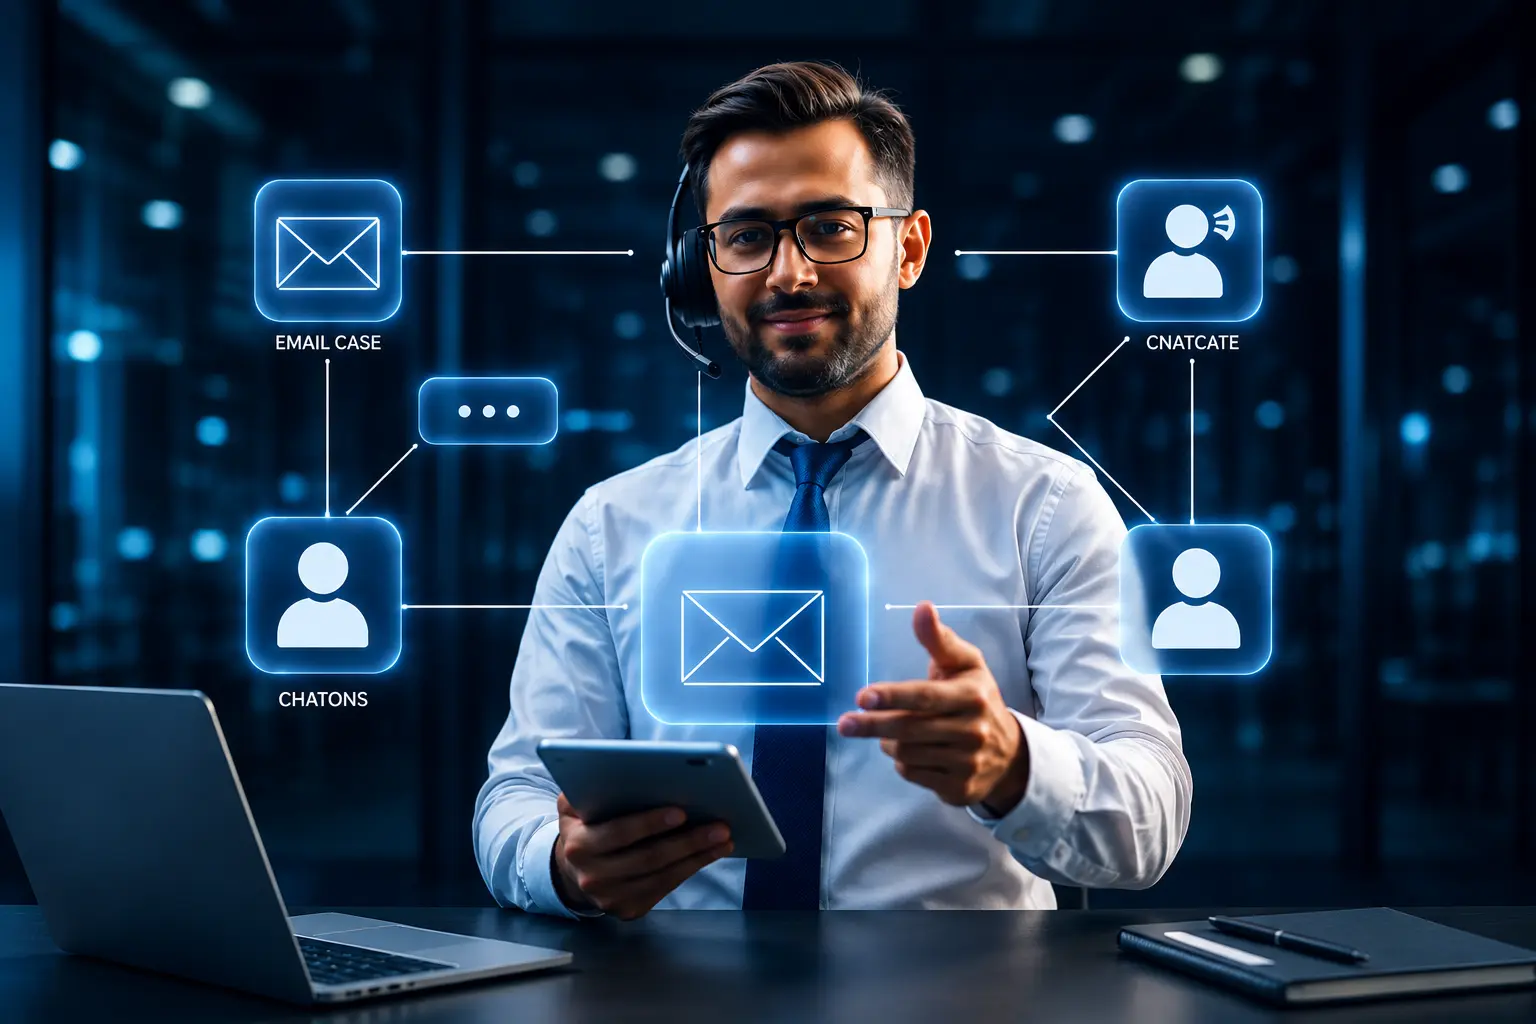
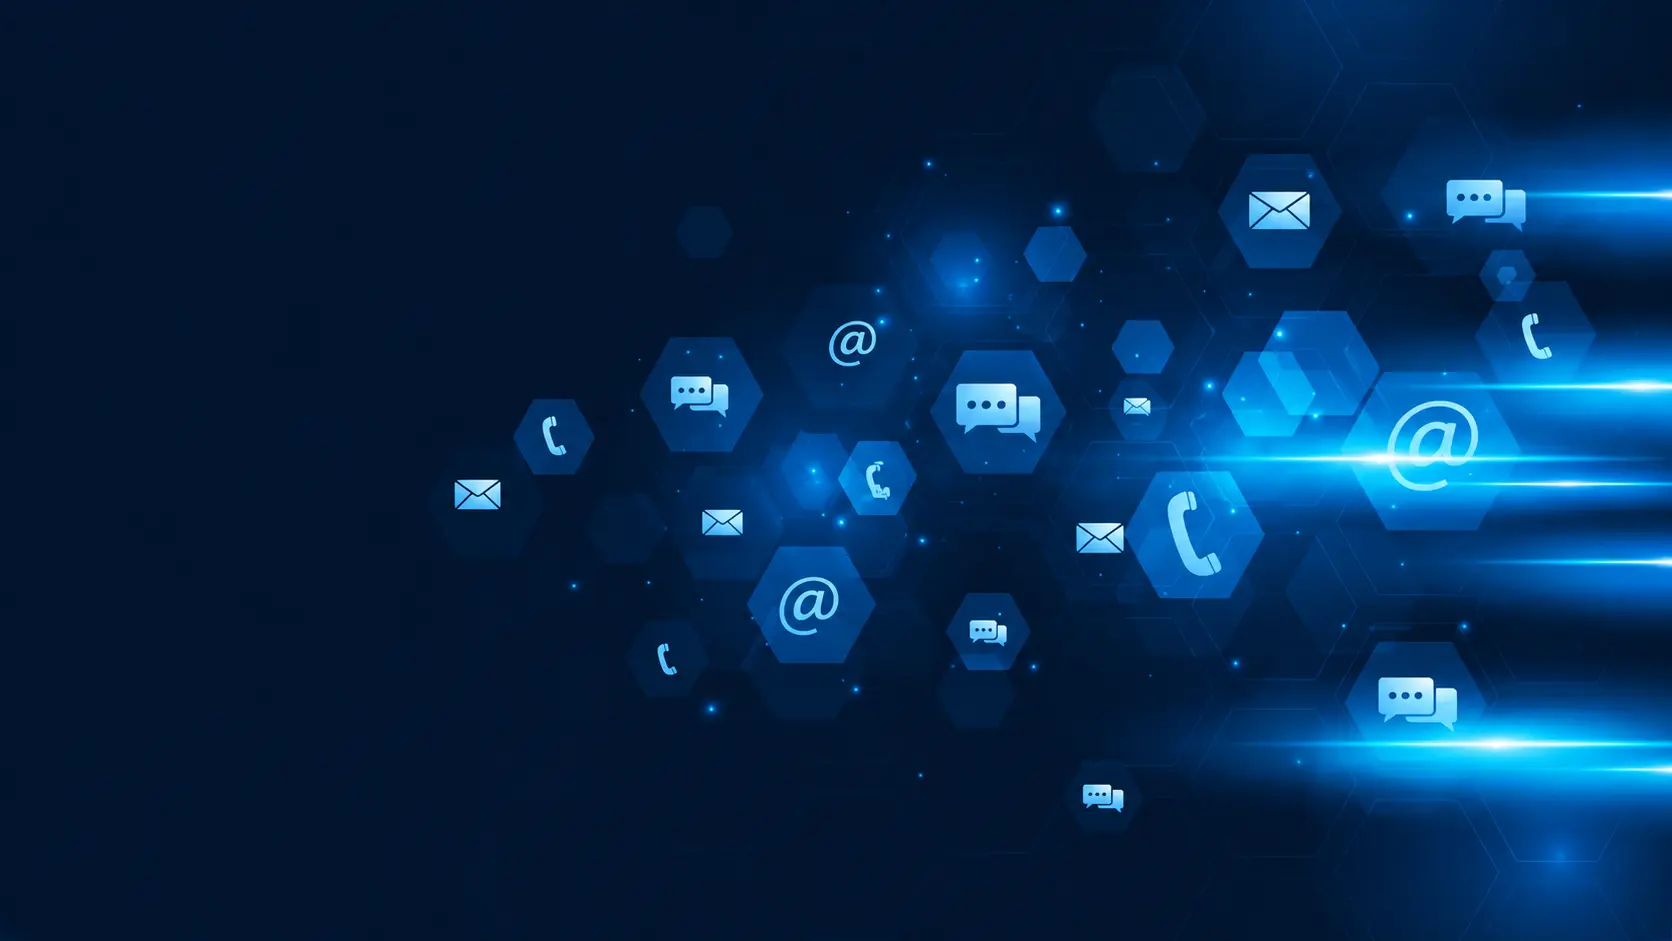
Refactor code structure for improved readability and maintainability

diff --git a/client/src/features/public/pages/ContactUs.tsx b/client/src/features/public/pages/ContactUs.tsx
@@ -122,40 +122,42 @@ function ContactUs() {
     }`;
 
   return (
-    <div className="bg-white min-h-screen">
+    <div className="w-full min-h-screen bg-[#0D3B72]/20 z-0">
       <Header />
 
       {/* Hero */}
-      <section className="relative bg-linear-to-br from-[#008CBA] via-[#006a8e] to-[#004d6b] text-white overflow-hidden">
+      <section className="relative w-full min-h-screen bg-[url('/src/assets/contect.webp')] text-white overflow-hidden bg-cover bg-center">
+              <div className="absolute inset-0 bg-[#06192d]/70"></div>
+
         <div className="absolute inset-0 opacity-10">
           <div className="absolute top-10 left-10 w-72 h-72 bg-white rounded-full blur-3xl" />
-          <div className="absolute bottom-10 right-10 w-96 h-96 bg-white rounded-full blur-3xl" />
+          <div className="absolute bottom-10 right-10 w-96 h-96 bg-white/10 rounded-full blur-3xl" />
         </div>
         <div className="relative max-w-4xl mx-auto px-6 py-24 text-center">
-          <div className="inline-flex items-center gap-2 bg-white/20 backdrop-blur-sm rounded-full px-4 py-2 mb-6 text-sm font-medium">
-            <Sparkles className="w-4 h-4" />
-            <span>✦ Wijha</span>
+          <div className="inline-flex items-center gap-2 bg-white backdrop-blur-sm rounded-full px-4 py-2 mb-6 text-base font-medium">
+            <Sparkles className="w-4 h-4 text-black" />
+            <span className="text-black"> Wijha</span>
           </div>
-          <h1 className="text-4xl sm:text-5xl font-bold mb-6 leading-tight">
+          <h1 className="text-4xl sm:text-5xl font-bold mb-6 leading-tight text-white">
             {t("contactHeroTitle")}
           </h1>
-          <p className="text-lg sm:text-xl text-blue-100 leading-relaxed max-w-2xl mx-auto">
+          <p className="text-lg sm:text-xl text-white leading-relaxed max-w-3xl mx-auto">
             {t("contactHeroSubtitle")}
           </p>
         </div>
       </section>
 
       {/* Main content */}
-      <section className="max-w-6xl mx-auto px-6 py-20">
-        <div className="grid lg:grid-cols-5 gap-12 items-start">
+      <section className="max-w-6xl mx-auto px-6 py-20 ">
+        <div className="grid lg:grid-cols-5 gap-12 items-start ">
           {/* Info panel */}
           <div className="lg:col-span-2 space-y-6">
             <div>
-              <div className="inline-flex items-center gap-2 text-[#008CBA] font-semibold text-sm uppercase tracking-wider mb-3">
-                <div className="w-8 h-0.5 bg-[#008CBA]" />
+              <div className="inline-flex items-center gap-2 text-[#0D3B72] font-semibold text-base uppercase tracking-wider mb-3">
+                <div className="w-8 h-0.5 bg-[#0D3B72]" />
                 {t("contactInfoTitle")}
               </div>
-              <h2 className="text-2xl font-bold text-gray-900">
+              <h2 className="text-3xl font-bold text-gray-900 mb-5 leading-snug">
                 ✦ {t("contactInfoTitle")}
               </h2>
             </div>
@@ -164,16 +166,16 @@ function ContactUs() {
               {infoItems.map(({ icon: Icon, label, value }) => (
                 <div
                   key={label}
-                  className="flex items-start gap-4 bg-gray-50 rounded-2xl p-5 border border-gray-100 hover:border-[#008CBA]/30 hover:shadow-sm transition-all group"
+                  className=" flex items-start gap-4 bg-linear-to-br from-white to-[#F0F8FF] border border-[#0D3B72]/50 hover:border-[#0D3B72]/90 rounded-2xl p-6 shadow-sm hover:shadow-md  transition-all group"
                 >
-                  <div className="w-11 h-11 bg-[#008CBA]/10 rounded-xl flex items-center justify-center shrink-0 group-hover:bg-[#008CBA] transition-colors">
-                    <Icon className="w-5 h-5 text-[#008CBA] group-hover:text-white transition-colors" />
+                  <div className="w-12 h-12 bg-[#0D3B72]/10 rounded-xl flex items-center justify-center shrink-0 group-hover:bg-[#0D3B72] transition-colors">
+                    <Icon className="w-6 h-6 text-[#0D3B72] group-hover:text-white transition-colors" />
                   </div>
                   <div>
-                    <p className="text-xs font-semibold text-gray-400 uppercase tracking-wide mb-1">
+                    <p className="text-xs font-semibold text-gray-900 uppercase tracking-wide mb-1">
                       {label}
                     </p>
-                    <p className="text-gray-700 font-medium text-sm">{value}</p>
+                    <p className="text-gray-900 font-medium text-sm">{value}</p>
                   </div>
                 </div>
               ))}
@@ -182,19 +184,19 @@ function ContactUs() {
 
           {/* Form */}
           <div className="lg:col-span-3">
-            <div className="bg-white rounded-3xl border border-gray-100 shadow-sm p-8 sm:p-10">
+            <div className="bg-linear-to-br from-white to-[#F0F8FF] rounded-3xl border border-[#0D3B72]/50 hover:border-[#0D3B72]/90 shadow-sm p-8 sm:p-10">
               <div className="mb-8">
                 <h2 className="text-2xl font-bold text-gray-900 mb-2">
                   {t("contactFormTitle")}
                 </h2>
-                <p className="text-gray-500 text-sm">
+                <p className="text-gray-00 text-sm">
                   {t("contactFormSubtitle")}
                 </p>
               </div>
 
               {status === "success" ? (
                 <div className="flex flex-col items-center justify-center py-16 text-center">
-                  <div className="w-16 h-16 bg-green-100 rounded-full flex items-center justify-center mb-4">
+                  <div className="w-16 h-16 bg-linear-to-br from-white to-[#F0F8FF] rounded-full flex items-center justify-center mb-4">
                     <CheckCircle className="w-8 h-8 text-green-500" />
                   </div>
                   <h3 className="text-xl font-bold text-gray-900 mb-2">
@@ -205,7 +207,7 @@ function ContactUs() {
                   </p>
                   <button
                     onClick={() => setStatus("idle")}
-                    className="mt-6 text-sm text-[#008CBA] font-medium hover:underline"
+                    className="mt-6 text-sm text-[#0D3B72] font-medium hover:underline"
                   >
                     ← {t("contactSend")}
                   </button>
@@ -306,7 +308,7 @@ function ContactUs() {
                   <button
                     type="submit"
                     disabled={status === "sending"}
-                    className="w-full flex items-center justify-center gap-2 px-6 py-3.5 rounded-xl bg-[#008CBA] hover:bg-[#00668C] text-white font-semibold text-sm transition-all disabled:opacity-60 disabled:cursor-not-allowed"
+                    className="w-full flex items-center justify-center gap-2 px-6 py-3.5 rounded-xl bg-[#0D3B72] hover:bg-[#0A2A5A] text-white font-semibold text-sm transition-all disabled:opacity-60 disabled:cursor-not-allowed"
                   >
                     {status === "sending" ? (
                       <>

diff --git a/client/src/features/public/pages/AboutUs.tsx b/client/src/features/public/pages/AboutUs.tsx
@@ -37,7 +37,7 @@ function AboutUs() {
       <Header />
       {/* Hero Section */}
       <section 
-        className="relative w-full min-h-screen bg-[url('/src/assets/contect.webp')] text-white overflow-hidden bg-cover bg-center"
+        className="relative w-full min-h-screen bg-[url('/src/assets/about.webp')] text-white overflow-hidden bg-cover bg-center"
       >
         <div className="absolute inset-0 bg-[#06192d]/70"></div>
         <div className="absolute inset-0 opacity-10">
@@ -146,7 +146,7 @@ function AboutUs() {
               <div className="w-12 h-12 bg-[#0D3B72]/10 rounded-xl flex items-center justify-center shrink-0 group-hover:bg-[#0D3B72] transition-colors">
                 <Icon className="w-6 h-6 text-[#0D3B72] group-hover:text-white transition-colors" />
               </div>
-              <p className="text-gray-700 font-medium leading-relaxed pt-2">
+              <p className="text-gray-900 font-medium leading-relaxed pt-2">
                 {text}
               </p>
             </div>